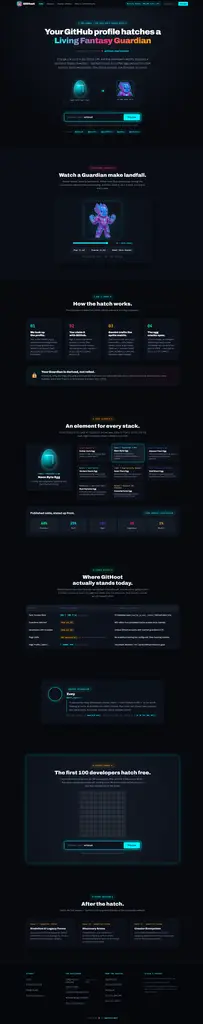
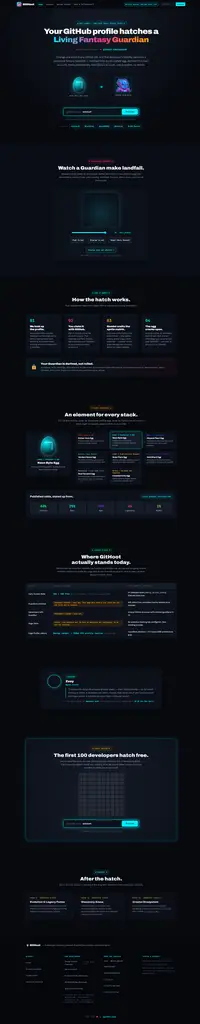
fix(marketing): complete truthful loading states and contract telemetry
- Propagate quotaLoading state to Navbar and Footer, rendering accessible skeleton pill when loading.
- Render neutral loading panel in S7 dot matrix during initial synchronization with D1.
- Update S5 Launch Status copy with exact non-numeric contract strings.
- Add reduced-motion guards on sequence playback and smooth scroll overrides.
- Update evidence screenshots for healthy D1, reduced motion, and mobile viewports.

diff --git a/src/client/components/Navbar.tsx b/src/client/components/Navbar.tsx
@@ -8,12 +8,13 @@ import type { EarlyAccessStatus } from '../../server/types';
 
 export interface NavbarProps {
   quota: EarlyAccessStatus | null;
+  quotaLoading?: boolean;
   activeRoute: string;
   onRouteChange: (route: string) => void;
 }
-
 export const Navbar: React.FC<NavbarProps> = ({
   quota,
+  quotaLoading,
   activeRoute,
   onRouteChange
 }) => {
@@ -91,7 +92,12 @@ export const Navbar: React.FC<NavbarProps> = ({
 
         {/* Right Section: Quota Pill + Search Input + Mobile Menu Toggle */}
         <div className="nav-right">
-          {quota && (
+          {quotaLoading ? (
+            <div className="quota-pill" id="nav-quota-pill" aria-busy="true">
+              <span className="quota-dot" style={{ animation: 'pulse 1s infinite' }} />
+              <span style={{ opacity: 0.7 }}>Early Access: checking slots...</span>
+            </div>
+          ) : quota ? (
             <div className="quota-pill" id="nav-quota-pill">
               <span className="quota-dot" />
               <span>
@@ -100,7 +106,7 @@ export const Navbar: React.FC<NavbarProps> = ({
                   : `Early Access: ${quota.remaining}/${quota.total} slots left`}
               </span>
             </div>
-          )}
+          ) : null}
 
           {/* Quick Search Form */}
           <form onSubmit={handleSearchSubmit} className="nav-search">
@@ -134,18 +140,23 @@ export const Navbar: React.FC<NavbarProps> = ({
       </div>
 
       {/* Persistent mobile quota line under brand row (Contract S0) */}
-      {quota && (
         <div className="mobile-quota-row">
-          <div className="quota-pill">
-            <span className="quota-dot" />
-            <span>
-              {quota.degraded || quota.remaining === null
-                ? 'Early Access status unavailable'
-                : `Early Access: ${quota.remaining}/${quota.total} slots left`}
-            </span>
-          </div>
+          {quotaLoading ? (
+            <div className="quota-pill" aria-busy="true">
+              <span className="quota-dot" style={{ animation: 'pulse 1s infinite' }} />
+              <span style={{ opacity: 0.7 }}>Early Access: checking slots...</span>
+            </div>
+          ) : quota ? (
+            <div className="quota-pill">
+              <span className="quota-dot" />
+              <span>
+                {quota.degraded || quota.remaining === null
+                  ? 'Early Access status unavailable'
+                  : `Early Access: ${quota.remaining}/${quota.total} slots left`}
+              </span>
+            </div>
+          ) : null}
         </div>
-      )}
 
       {/* Mobile Drawer Disclosure Panel */}
       <div className={`mobile-nav-panel ${mobileMenuOpen ? 'open' : ''}`} id="mobile-nav-panel">

diff --git a/src/client/pages/HomePage.tsx b/src/client/pages/HomePage.tsx
@@ -108,9 +108,20 @@ export const HomePage: React.FC<HomePageProps> = ({
     });
   };
 
+  const isReducedMotion = () =>
+    typeof window !== 'undefined' && window.matchMedia('(prefers-reduced-motion: reduce)').matches;
+
   const playSequence = (speed: 'normal' | 'slow') => {
     if (!isStripLoaded) setIsStripLoaded(true);
     clearTimeout(animTimerRef.current as number);
+
+    // If reduced motion is requested, lock cleanly onto Frame 16 (Hero Stance)
+    if (isReducedMotion()) {
+      setIsPlaying(false);
+      setIsSlowmo(false);
+      setActiveFrame(16);
+      return;
+    }
 
     // Reset animation state momentarily so same-speed replay triggers a clean restart
     setIsPlaying(false);
@@ -132,7 +143,6 @@ export const HomePage: React.FC<HomePageProps> = ({
       setActiveFrame(16);
     }, duration);
   };
-
   const pauseSequence = () => {
     clearTimeout(animTimerRef.current as number);
     setIsPlaying(false);
@@ -184,7 +194,8 @@ export const HomePage: React.FC<HomePageProps> = ({
     const el = document.getElementById('hero-username-input');
     if (el) {
       el.focus();
-      window.scrollTo({ top: 0, behavior: 'smooth' });
+      const behavior = isReducedMotion() ? 'auto' : 'smooth';
+      window.scrollTo({ top: 0, behavior });
     }
   };
 
@@ -642,8 +653,22 @@ export const HomePage: React.FC<HomePageProps> = ({
               One hundred free slots, one per GitHub account. After slot 100, a hatch costs ${config?.charge_after_usd ?? '0.99'} — that covers the Gemini model call, nothing more. We would rather tell you the price now than surprise you at the reveal.
             </p>
 
-            {/* 10x10 Dot Matrix or Degraded State */}
-            {quota?.degraded || quota?.claimed === null ? (
+            {/* 10x10 Dot Matrix, Loading, or Degraded State */}
+            {quotaLoading ? (
+              <div style={{
+                padding: '24px 16px',
+                background: 'rgba(0, 240, 255, 0.04)',
+                border: '1px solid rgba(0, 240, 255, 0.15)',
+                borderRadius: '12px',
+                color: 'var(--text-secondary)',
+                fontFamily: "'JetBrains Mono', monospace",
+                fontSize: '13px',
+                margin: '28px auto',
+                maxWidth: '420px'
+              }}>
+                ✦ Synchronizing Genesis cohort ledger with D1...
+              </div>
+            ) : quota?.degraded || quota?.claimed === null ? (
               <div style={{
                 padding: '24px 16px',
                 background: 'rgba(255, 168, 0, 0.08)',

diff --git a/src/client/main.tsx b/src/client/main.tsx
@@ -195,12 +195,14 @@ function App() {
     <>
       <Navbar
         quota={quotaState.data}
+        quotaLoading={quotaState.loading}
         activeRoute={routeState.route === '/profile' && routeState.profileUsername ? `/${routeState.profileUsername}` : routeState.route}
         onRouteChange={handleRouteChange}
       />
       {renderActivePage()}
       <Footer
         quota={quotaState.data}
+        quotaLoading={quotaState.loading}
         config={configState.data}
         configLoading={configState.loading}
         configError={configState.error}

diff --git a/src/client/components/Footer.tsx b/src/client/components/Footer.tsx
@@ -27,10 +27,10 @@ export const Footer: React.FC<FooterProps> = ({
     if (onRouteChange) {
       e.preventDefault();
       onRouteChange(route);
-      window.scrollTo({ top: 0, behavior: 'smooth' });
+      const isReduced = typeof window !== 'undefined' && window.matchMedia('(prefers-reduced-motion: reduce)').matches;
+      window.scrollTo({ top: 0, behavior: isReduced ? 'auto' : 'smooth' });
     }
   };
-
   return (
     <footer style={{
       background: '#05070B',

diff --git a/plans/reports/qa-verification-report.md b/plans/reports/qa-verification-report.md
@@ -1,6 +1,6 @@
 # GitHoot Autonomous QA & Verification Report
 
-- **Date:** 2026-08-30T09:16:40.629Z
+- **Date:** 2026-08-30T09:20:19.744Z
 - **Target Domain:** `https://githoot.com`
 - **Supervisor:** Subagent Kongming (Zero Assumptions Policy)
 - **Total Tests Executed:** 11
@@ -12,11 +12,11 @@
 |---|---|---|---|---|
 | **API** | Healthcheck Endpoint GET /health | ✅ PASS | 13ms | Status: ok, Domain: githoot.com |
 | **API** | Early Access Status GET /api/early-access/status | ✅ PASS | 0ms | Total Slots: 100, Free Available: true |
-| **API** | Dynamic SVG README Badge GET /badge/octocat.svg | ✅ PASS | 904ms | SVG Length: 1010 bytes, Cache-Control: public, max-age=43200, s-maxage=43200 |
-| **API** | Dynamic OpenGraph Card GET /og/octocat | ✅ PASS | 146ms | OG Image Size: 1200x630, Bytes: 3339 |
+| **API** | Dynamic SVG README Badge GET /badge/octocat.svg | ✅ PASS | 882ms | SVG Length: 1010 bytes, Cache-Control: public, max-age=43200, s-maxage=43200 |
+| **API** | Dynamic OpenGraph Card GET /og/octocat | ✅ PASS | 156ms | OG Image Size: 1200x630, Bytes: 3339 |
 | **DNA** | Deterministic DNA Hash Consistency | ✅ PASS | 0ms | Species: Aether Neon Byte, Element: Cyber, Rarity: Common |
-| **Resolver** | GitHub Profile Resolution GET /api/profile/octocat | ✅ PASS | 141ms | Source: github_live, Egg: solar-flare, Login: @octocat |
-| **Resolver** | 404 User Not Found Propagation for Non-existent User | ✅ PASS | 472ms | HTTP 404 correctly returned for non-existent user |
+| **Resolver** | GitHub Profile Resolution GET /api/profile/octocat | ✅ PASS | 157ms | Source: github_live, Egg: solar-flare, Login: @octocat |
+| **Resolver** | 404 User Not Found Propagation for Non-existent User | ✅ PASS | 525ms | HTTP 404 correctly returned for non-existent user |
 | **Image** | Chroma Green Removal & Edge De-Spill | ✅ PASS | 0ms | Green background Alpha=0, Edge green de-spilled from 190 to 150 |
 | **Image** | Pure TS PNG Encode/Decode Roundtrip | ✅ PASS | 2ms | Encoded: 77 bytes -> Decoded: 2x1 RGBA |
 | **Image** | Smart Bounding Box Detection & Centering | ✅ PASS | 1ms | Original Bbox: [5,5..14,14] -> Centered at (128, 128) |
